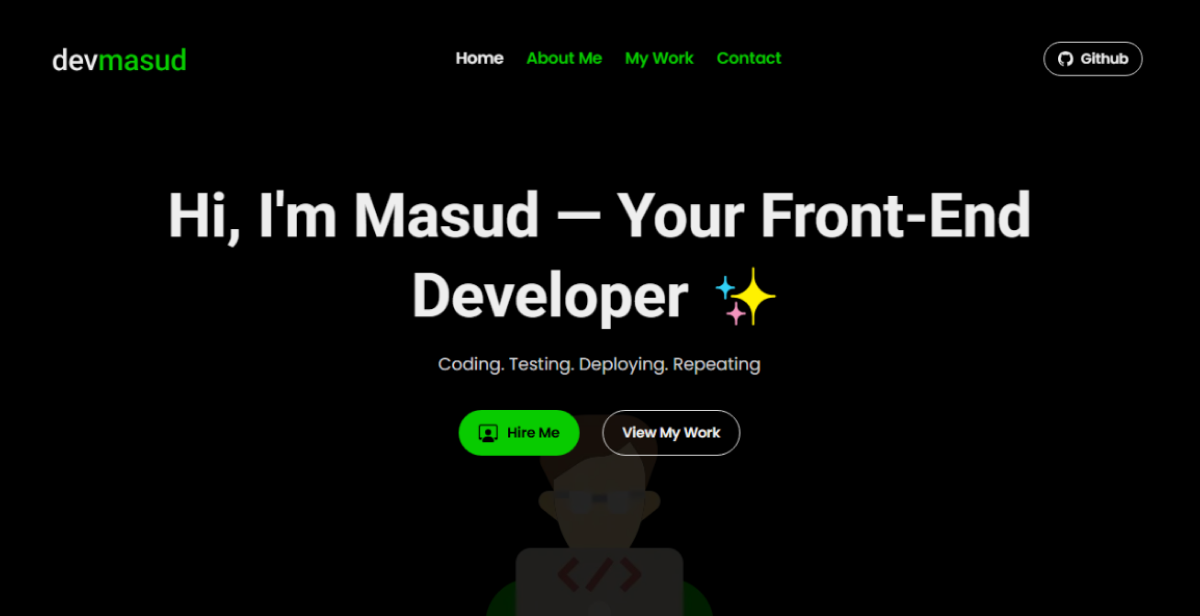
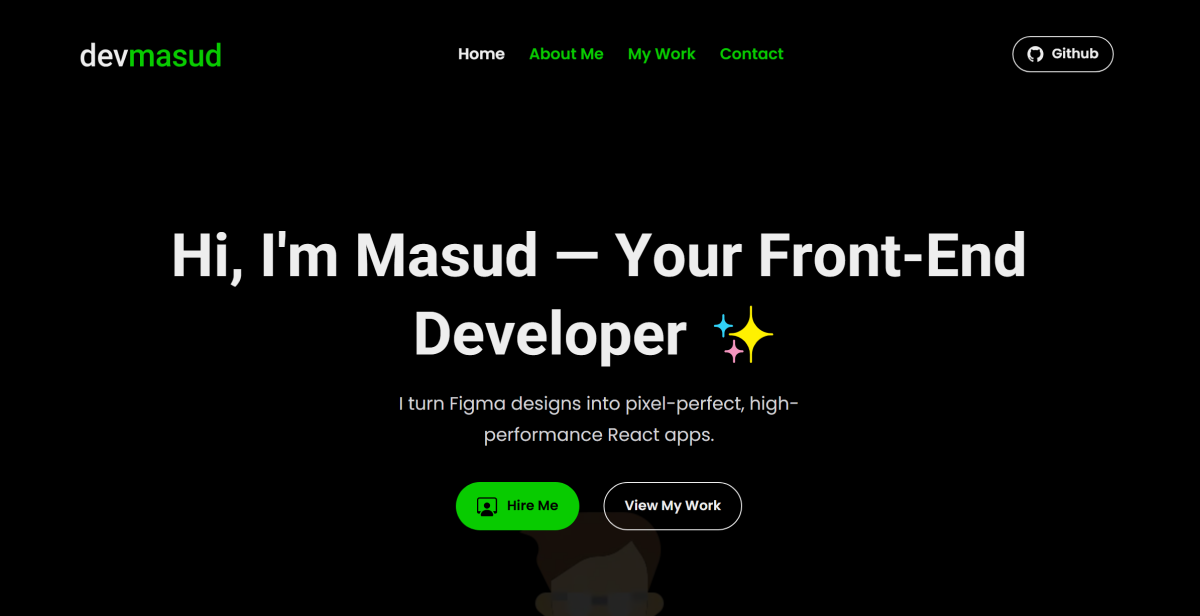
redesigned

diff --git a/src/components/app/GlobalMetaTags.jsx b/src/components/app/GlobalMetaTags.jsx
@@ -3,14 +3,14 @@ import { DefaultSeo } from "next-seo";
 export default function GlobalMetaTags() {
   return (
     <DefaultSeo
-      defaultTitle="Masud - Front-End Web Developer | React, Next.js, Javascript & Tailwind Css"
-      description="I build fast, scalable, and visually engaging web webistes for startups, businesses, and personal projects worldwide. Specializing in React, Next.js, JavaScript, TypeScript, Tailwind CSS, and modern web solutions that perform and grow your brand."
+      defaultTitle="Masud — Front-End Developer | Figma to React & Next.js Expert"
+      description="I turn Figma designs into pixel-perfect, fast, and scalable React/Next.js applications. Focused on crafting modern, high-performance web experiences that look as good as they perform."
       canonical="https://bytedesign.com.ng/"
       additionalMetaTags={[
         {
           name: "keywords",
           content:
-            "Front-End developer, React developer, Next.js developer, TypeScript developer, JavaScript developer, web development, modern web apps, SaaS web apps, portfolio web developer, scalable web solutions",
+            "Figma to React developer, Front-End developer, Next.js developer, React developer, TypeScript developer, Tailwind CSS, JavaScript developer, UI developer, responsive web design, modern web development, pixel-perfect websites, frontend engineer",
         },
         {
           name: "charset",
@@ -50,26 +50,25 @@ export default function GlobalMetaTags() {
       openGraph={{
         type: "website",
         url: "https://bytedesign.com.ng/",
-        title:
-          "Masud - Front-End Web Developer | React, Next.js, JavaScript & Tailwind CSS",
+        title: "Masud — Front-End Developer | Figma to React & Next.js Expert",
         description:
-          "I design and develop fast, scalable, and modern web websites for clients and startups worldwide. From portfolios to custom SaaS platforms — I deliver solutions that perform and grow your brand.",
+          "I specialize in converting Figma designs into pixel-perfect, high-performance React/Next.js applications. Clean, scalable, and built for modern web standards.",
         locale: "en_US",
         images: [
           {
             url: "https://bytedesign.com.ng/images/og-banner.png",
             width: 1200,
             height: 630,
-            alt: "Masud - Front-End Web Developer",
+            alt: "Masud — Figma to React Front-End Developer",
           },
           {
             url: "https://bytedesign.com.ng/images/og-banner.png",
             width: 2400,
             height: 1260,
-            alt: "Masud - Front-End Web Developer",
+            alt: "Masud — Figma to React Front-End Developer",
           },
         ],
-        site_name: "Masud - Front-End Web Developer",
+        site_name: "Masud — Front-End Developer",
       }}
     />
   );

diff --git a/src/pages/_app.js b/src/pages/_app.js
@@ -61,11 +61,11 @@ export default function MyApp({ Component, pageProps }) {
         <meta name="twitter:creator" content="@DevMasud" />
         <meta
           name="twitter:title"
-          content="Masud - Front-End Web Developer | React, Next.js, Javascript & Tailwind Css"
+          content="Masud — Front-End Developer | Figma to React & Next.js Expert"
         />
         <meta
           name="twitter:description"
-          content="I build fast, scalable, and visually engaging web webistes for startups, businesses, and personal projects worldwide. Specializing in React, Next.js, JavaScript, TypeScript, Tailwind CSS, and modern web solutions that perform and grow your brand."
+          content="I specialize in converting Figma designs into pixel-perfect, high-performance React/Next.js applications. Clean, scalable, and built for modern web standards."
         />
         <meta
           name="twitter:image"
@@ -115,7 +115,6 @@ export default function MyApp({ Component, pageProps }) {
               sameAs: [
                 "https://twitter.com/devmasud",
                 "https://web.facebook.com/profile.php?id=61581299132973",
-                "https://www.instagram.com/dev__masud",
                 "https://www.linkedin.com/in/dev-masud",
                 "https://github.com/dev-mas-ud",
               ],

diff --git a/src/components/app/landing/AboutMe.jsx b/src/components/app/landing/AboutMe.jsx
@@ -68,11 +68,11 @@ export default function AboutMe() {
           <HeadingMarker text="WHO AM I" />
           <H2Heading mb={2}>About Me</H2Heading>
           <Text fontSize="1.12em" lineHeight={1.9} mb={6} color="neutralDark">
-            Hi, I'm Masud — a creative front-end developer. I care about
-            building web experiences that actually move the needle, products
-            that are fast, intuitive, and built to scale. I combine technical
-            precision with design thinking to deliver solutions that look as
-            good as they perform.
+            Hi, I'm Masud — a creative front-end developer who turns Figma
+            designs into pixel-perfect, high-performance web experiences. I care
+            about building products that are fast, intuitive, and scalable. By
+            combining technical precision with design thinking, I deliver
+            solutions that look as good as they perform.
           </Text>
 
           <Text fontSize="1.12em" lineHeight={1.9} mb={6} color="neutralDark">

diff --git a/src/components/app/landing/Hero.jsx b/src/components/app/landing/Hero.jsx
@@ -64,11 +64,11 @@ export default function Hero() {
           fontSize={{ base: "md", md: "lg" }}
           color="gray.300"
           lineHeight="1.7"
-          w={{ base: "full", md: "60vw" }}
+          w={{ base: "full", md: "60vw", lg: "40vw" }}
           textAlign={"center"}
           my={{ base: 1, md: 0 }}
         >
-          Coding. Testing. Deploying. Repeating
+          I turn Figma designs into pixel-perfect, high-performance React apps.
         </Text>
 
         <HStack justify={"center"} w={"full"} mt={4} gap={{ base: 4, md: 6 }}>
